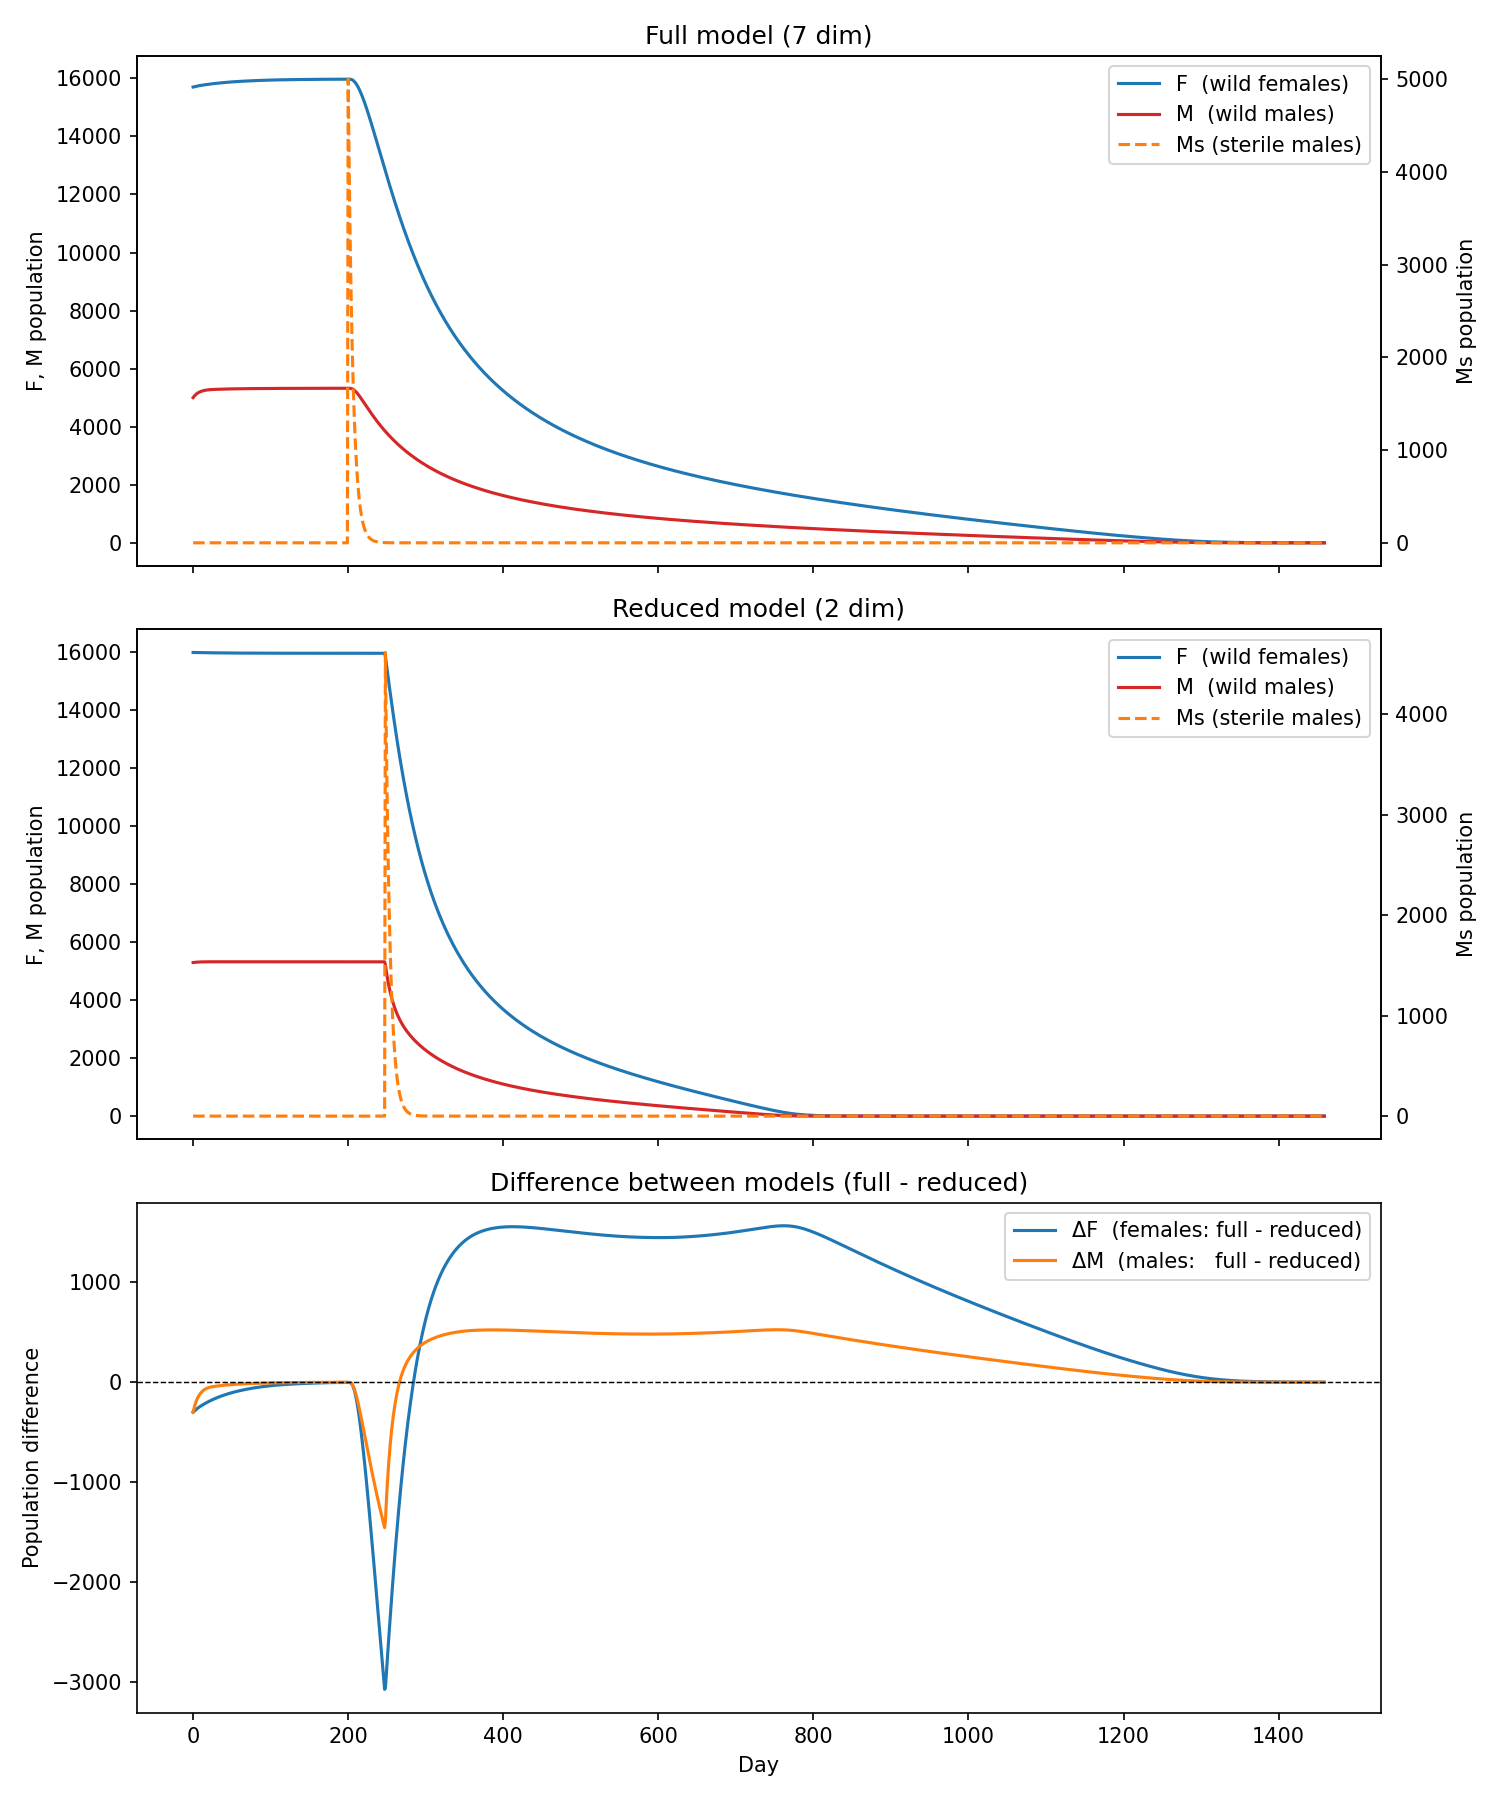
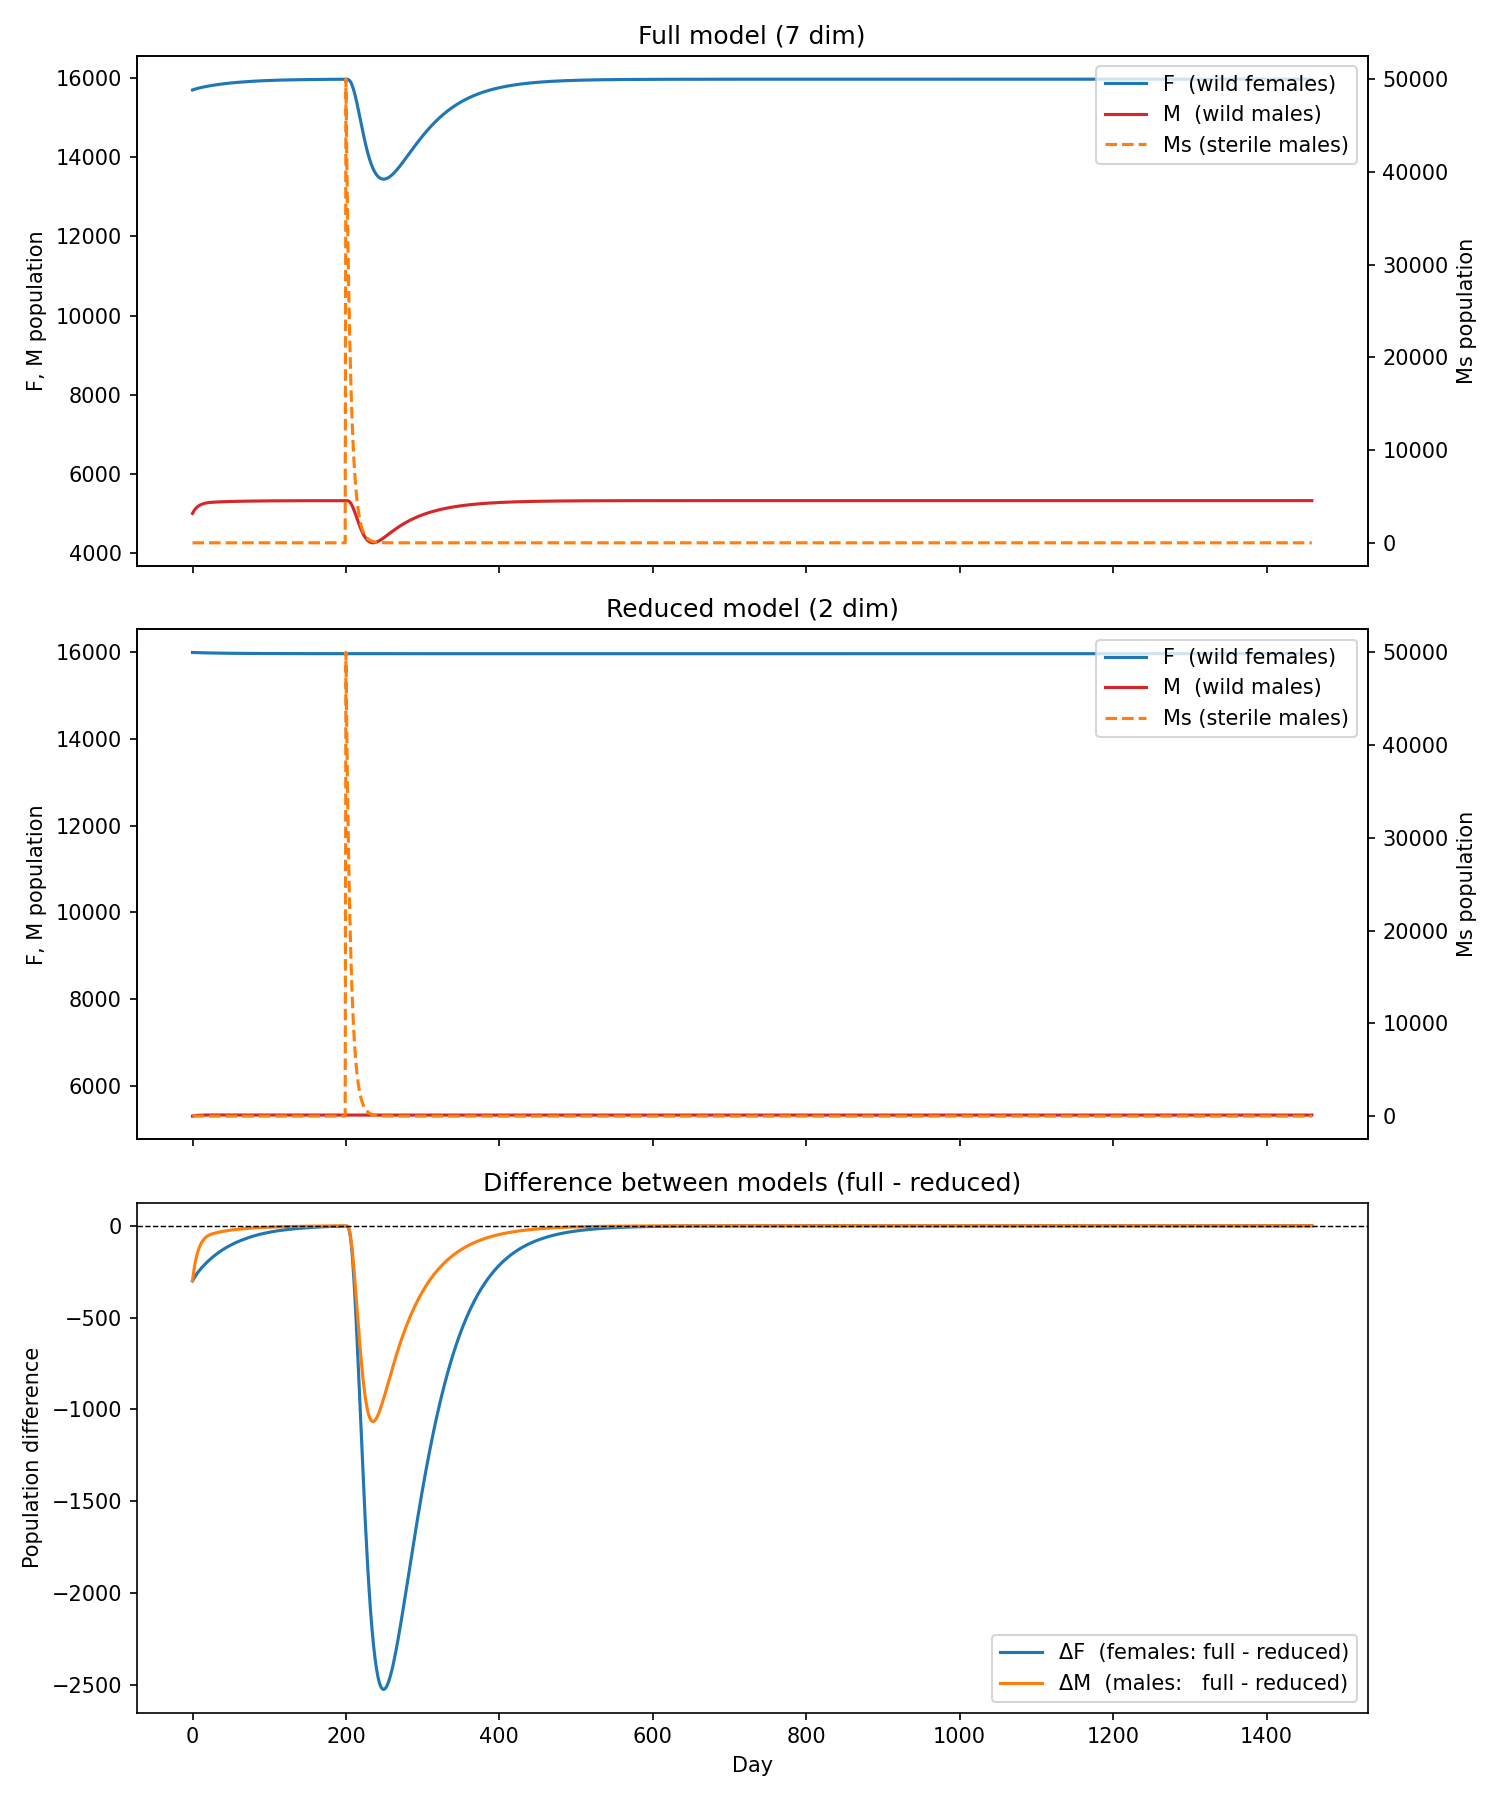
Dirac intervention not working

diff --git a/mosquisim/models.py b/mosquisim/models.py
@@ -207,8 +207,7 @@ def det_model_2(t, y, birth, n_egg, deltaA, death_egg, tel, tlp, transi_mod,
                 death_L, c,
                 t_data, precip_data, H,
                 release_times, rho,
-                residual_config=None,
-                type=1, Sterile = 0):
+                reltype=1, Sterile = 0):
 
     F, M = y
 
@@ -218,16 +217,17 @@ def det_model_2(t, y, birth, n_egg, deltaA, death_egg, tel, tlp, transi_mod,
         Ms = Ms_fun(t, release_times, rho, deltaA)   # pure function call
 
 
-    if type == 1:
+    if reltype == 1:
         precip = np.interp(t, t_data, precip_data)
         comp = competition1(1/c, 1/(c * 50), precip)
-    elif type == 2:
+    elif reltype == 2:
         water = np.interp(t, t_data, H)
         comp = 1 / ((1 / (0.2 * c)) * (water / max_rain) + 1/(5 * c))
     else:
         comp = c
 
     probaM = M / (M + Ms) if M > 0 else 0.0
+    
     matf   = allee(M, Ms) * probaM
 
     birth_mod  = birth * tel * n_egg / (tel + death_egg)
@@ -240,26 +240,16 @@ def det_model_2(t, y, birth, n_egg, deltaA, death_egg, tel, tlp, transi_mod,
                  )) / (2 * comp)
     shared = birth_rate * transi_mod / 2
 
-    female_res, male_res = 0.0, 0.0
-    if residual_config is not None:
-        female_res, male_res = pre_release_adult_input(
-            t,
-            residual_config['transition_time'],
-            residual_config['initial_state'],
-            residual_config['params']
-        )
-
-    dF = shared  - deltaA * F + female_res
-    dM = shared - deltaA * 3 * M + male_res
+    dF = shared  - deltaA * F
+    dM = shared - deltaA * 3 * M
 
     return np.array([dF, dM])
 
 
 def sim_2(pop_init, days, birth, deltaA, deltaE, transi_el, transi_lp, transi_mod,
           death_L, c,
-          release_times=None, rho=0.0,
-          n_egg=64, precip_data=precip_data, H=hum_data, type=1, Sterile = 0,
-          pre_release_pop_init_7d=None, transi_pa=None, death_P=None, mu=0.5):
+          release_times = None, rho=0.0,
+          n_egg=64, precip_data = precip_data, H = hum_data, reltype = 1, Sterile = 0):
     """
     pop_init               : length 2 (F, M) or 3 (Ms0 ignored — use releases)
     pre_release_pop_init_7d: optional 7D initial state used to bootstrap the
@@ -268,96 +258,11 @@ def sim_2(pop_init, days, birth, deltaA, deltaE, transi_el, transi_lp, transi_mo
     if release_times is None:
         release_times = np.array([])
         rho = 0.0
+        print("No releases")
     else:
         release_times = np.asarray(release_times, dtype=float)
 
     y0 = np.asarray(pop_init[:2], dtype=float)
-    residual_config = None
-
-    in_window_releases = release_times[
-        (release_times >= days[0]) & (release_times <= days[-1])
-    ]
-
-    if pre_release_pop_init_7d is not None and in_window_releases.size > 0:
-        if transi_pa is None or death_P is None:
-            raise ValueError(
-                "transi_pa and death_P are required when pre_release_pop_init_7d is provided."
-            )
-
-        first_release = float(in_window_releases[0])
-
-        if first_release == days[0]:
-            pre_release_state = np.asarray(pre_release_pop_init_7d[:7], dtype=float)
-            pre_F = np.array([], dtype=float)
-            pre_M = np.array([], dtype=float)
-        else:
-            pre_days = np.asarray(days[days < first_release], dtype=float)
-            pre_t_eval = np.append(pre_days, first_release)
-
-            pre_sol = solve_ivp(
-                lambda t, y: det_model_7(
-                    t, y, birth, n_egg, deltaA, deltaE,
-                    transi_el, transi_lp, transi_pa,
-                    death_L, death_P, c, mu,
-                    time_data, precip_data, H,
-                    np.array([]), 0.0,
-                    type
-                ),
-                [days[0], first_release],
-                np.asarray(pre_release_pop_init_7d[:7], dtype=float),
-                t_eval=pre_t_eval,
-                method='LSODA',
-                vectorized=False
-            )
-
-            pre_release_state = pre_sol.y[:, -1]
-            pre_F = pre_sol.y[3, :-1] + pre_sol.y[4, :-1] + pre_sol.y[5, :-1]
-            pre_M = pre_sol.y[6, :-1]
-
-        E0, L0, P0, F0, Ff0, Fs0, M0 = pre_release_state
-        y0 = np.array([F0 + Ff0 + Fs0, M0], dtype=float)
-        residual_config = {
-            'transition_time': first_release,
-            'initial_state': [Ff0, E0, L0, P0],
-            'params': {
-                'delta_F': deltaA,
-                'tau_E': transi_el,
-                'delta_E': deltaE,
-                'tau_L': transi_lp,
-                'delta_L': death_L,
-                'tau_P': transi_pa,
-                'delta_P': death_P,
-                'beta': n_egg * birth,
-                'mu': mu,
-            },
-        }
-
-        post_days = np.asarray(days[days >= first_release], dtype=float)
-
-        if post_days.size == 1 and post_days[0] == first_release:
-            post_F = np.array([y0[0]])
-            post_M = np.array([y0[1]])
-        else:
-            sol = solve_ivp(
-                lambda t, y: det_model_2(
-                    t, y, birth, n_egg, deltaA, deltaE,
-                    transi_el, transi_lp, transi_mod,
-                    death_L, c,
-                    time_data, precip_data, H,
-                    release_times, rho,
-                    residual_config,
-                    type
-                ),
-                [post_days[0], post_days[-1]], y0,
-                t_eval=post_days, method='LSODA', vectorized=False
-            )
-            post_F = sol.y[0]
-            post_M = sol.y[1]
-
-        F_out = np.concatenate([pre_F, post_F])
-        M_out = np.concatenate([pre_M, post_M])
-        Ms_out = Ms_fun(days, release_times, rho, deltaA)
-        return np.vstack([F_out, M_out, Ms_out])
 
     sol = solve_ivp(
         lambda t, y: det_model_2(
@@ -365,9 +270,7 @@ def sim_2(pop_init, days, birth, deltaA, deltaE, transi_el, transi_lp, transi_mo
             transi_el, transi_lp, transi_mod,
             death_L, c,
             time_data, precip_data, H,
-            release_times, rho,
-            residual_config,
-            type, Sterile
+            release_times, rho, reltype, Sterile
         ),
         [days[0], days[-1]], y0,
         t_eval=days, method='LSODA', vectorized=False

diff --git a/mosquisim/main.py b/mosquisim/main.py
@@ -20,11 +20,12 @@ init_3 = [16000, 5300]                        # F, M
 #release_times = None
 release_times = [200]
 #release_times = np.arange(400, 365+140, 7)
-rho = 5000
+rho = 50000
 
 p = params.params   # shorthand
 delay = 1/(p["transi_pa"]+ p["death_P"]) + 1/(p["transi_lp"] + p["death_L"]) + 1/(p["transi_el"] + p["deltaE"])
 delay = 4*( 1/(p["transi_pa"]) + 1/(p["transi_lp"]) * (init_8[0] + init_8[1])/(init_8[0] + init_8[1] + init_8[2]) + 1/(p["transi_el"])* (init_8[0])/(init_8[0] + init_8[1] + init_8[2]))
+delay = 100
 
 if release_times is not None:
     release_delay = release_times[0] + delay
@@ -40,7 +41,7 @@ sol8 = sim_7(
     c=p["c"], mu=p["mu"], n_egg=p["n_egg"],
     release_times=release_times, rho=rho,
     precip_data=precip_data, H=hum_data, 
-    type = 3, Sterile = 1
+    type = 3, Sterile = 0
 )
 
 # New reduced model: bootstrap from 7D state at first release
@@ -50,9 +51,9 @@ sol3_new = sim_2(
     transi_el=p["transi_el"], transi_lp=p["transi_lp"], transi_mod=p["transi_mod"],
     death_L=p["death_L"],
     c=p["c"], n_egg=p["n_egg"],
-    release_times=[release_delay], rho=rho,
+    release_times=release_times, rho=rho,
     precip_data=precip_data, H=hum_data,
-    type = 3, Sterile = 1
+    reltype = 3, Sterile = 0
 )
 
 # Old reduced model: no 7D bootstrap at first release
@@ -64,7 +65,7 @@ sol3_old = sim_2(
     c=p["c"], n_egg=p["n_egg"],
     release_times=release_times, rho=rho,
     precip_data=precip_data, H=hum_data,
-    type = 3, Sterile = 1
+    reltype = 3, Sterile = 0
 )
 
 print(sol8[:, -1])
@@ -119,7 +120,7 @@ plt.show()
 
 # Zoom around first release for easier visual validation
 zoom_left = max(days[0], release_times[0] - 30)
-zoom_right = min(days[-1], release_times[0] + 200)
+zoom_right = min(days[-1], release_times[0] + 500)
 mask = (days >= zoom_left) & (days <= zoom_right)
 fig, axes = plt.subplots(2, 1, figsize=(11, 8))
 
@@ -144,31 +145,4 @@ ax.legend()
 
 plt.tight_layout()
 plt.savefig("old_new_zoom.png", dpi=150)
-plt.show()
-
-#  Old vs New reduced model comparison 
-fig, axes = plt.subplots(2, 1, figsize=(11, 8), sharex=True)
-
-ax = axes[0]
-ax.plot(days, sol3_old[0], label="F old", color="tab:blue", alpha=0.8)
-ax.plot(days, sol3_new[0], label="F new", color="tab:blue", linestyle="--", linewidth=1.8)
-ax.plot(days, sol3_old[1], label="M old", color="tab:red", alpha=0.8)
-ax.plot(days, sol3_new[1], label="M new", color="tab:red", linestyle="--", linewidth=1.8)
-ax.axvline(release_times[0], color="k", linestyle=":", linewidth=1.0, label="first release")
-ax.set_title("Old vs New reduced model")
-ax.set_ylabel("Population")
-ax.legend(ncol=3)
-
-ax = axes[1]
-ax.plot(days, sol3_new[0] - sol3_old[0], label="ΔF (new-old)", color="tab:blue")
-ax.plot(days, sol3_new[1] - sol3_old[1], label="ΔM (new-old)", color="tab:red")
-ax.axhline(0, color="k", linewidth=0.7, linestyle="--")
-ax.axvline(release_times[0], color="k", linestyle=":", linewidth=1.0)
-ax.set_title("Difference between new and old reduced model")
-ax.set_xlabel("Day")
-ax.set_ylabel("Population difference")
-ax.legend()
-
-plt.tight_layout()
-plt.savefig("old_new_compare.png", dpi=150)
 plt.show()

diff --git a/mosquisim/brkn.py b/mosquisim/brkn.py
@@ -414,3 +414,31 @@ ax.legend()
 plt.tight_layout()
 plt.savefig("pre_release_input.png", dpi=150)
 plt.show()
+
+
+#  Old vs New reduced model comparison 
+fig, axes = plt.subplots(2, 1, figsize=(11, 8), sharex=True)
+
+ax = axes[0]
+ax.plot(days, sol3_old[0], label="F old", color="tab:blue", alpha=0.8)
+ax.plot(days, sol3_new[0], label="F new", color="tab:blue", linestyle="--", linewidth=1.8)
+ax.plot(days, sol3_old[1], label="M old", color="tab:red", alpha=0.8)
+ax.plot(days, sol3_new[1], label="M new", color="tab:red", linestyle="--", linewidth=1.8)
+ax.axvline(release_times[0], color="k", linestyle=":", linewidth=1.0, label="first release")
+ax.set_title("Old vs New reduced model")
+ax.set_ylabel("Population")
+ax.legend(ncol=3)
+
+ax = axes[1]
+ax.plot(days, sol3_new[0] - sol3_old[0], label="ΔF (new-old)", color="tab:blue")
+ax.plot(days, sol3_new[1] - sol3_old[1], label="ΔM (new-old)", color="tab:red")
+ax.axhline(0, color="k", linewidth=0.7, linestyle="--")
+ax.axvline(release_times[0], color="k", linestyle=":", linewidth=1.0)
+ax.set_title("Difference between new and old reduced model")
+ax.set_xlabel("Day")
+ax.set_ylabel("Population difference")
+ax.legend()
+
+plt.tight_layout()
+plt.savefig("old_new_compare.png", dpi=150)
+plt.show()
